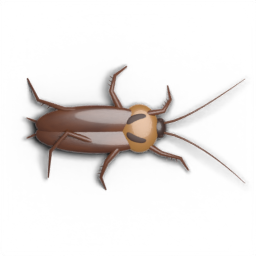
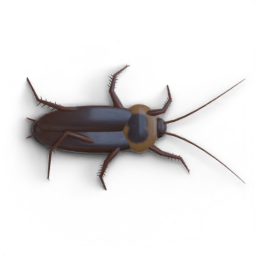
Roach looks real, not plastic: veined wings, room lighting, wet coat
He said it 'could look more realistic texture-wise'. The plastic came from
one lamp on an evenly glossy shell. Now: forewings with raised longitudinal
and cross veins in the bump, darker at the shoulder and thinning to amber,
under a smooth wet coat that keeps the geometry normal; shine driven by a
smudge noise, never a constant; an amber pitted shield whose dark blotch is
one bilobed mass painted in the pigment; spinier legs with claws; the last
abdominal plates showing between the wing tips.

Lit by one of Blender's bundled rooms, TILTED so the flat back reflects a
window-to-floor sweep instead of an even ceiling (which went milky grey),
with the key lamp hidden from glossy rays. Per kind - the approved matte
spider keeps its plain lamp. Re-rendered walk loop: clean seam.

diff --git a/tools/blender_art/critters.py b/tools/blender_art/critters.py
@@ -33,7 +33,16 @@ from mathutils import Vector
 
 
 # -- scene -----------------------------------------------------------------
-def reset_scene(size: int, view: float, samples: int):
+def bundled_hdri(name: str) -> Path:
+    """One of the lighting environments Blender ships for its viewport
+    (city, courtyard, forest, interior, night, studio, sunrise, sunset)."""
+    root = Path(bpy.app.binary_path).parent
+    ver = "%d.%d" % bpy.app.version[:2]
+    return root / ver / "datafiles" / "studiolights" / "world" / f"{name}.exr"
+
+
+def reset_scene(size: int, view: float, samples: int, hdri: str = "",
+                env_tilt: float = 100.0, env_turn: float = 20.0):
     bpy.ops.wm.read_factory_settings(use_empty=True)
     sc = bpy.context.scene
     sc.render.engine = "CYCLES"
@@ -51,6 +60,24 @@ def reset_scene(size: int, view: float, samples: int):
     bg = world.node_tree.nodes["Background"]
     bg.inputs[0].default_value = (0.75, 0.78, 0.9, 1)
     bg.inputs[1].default_value = 0.30
+    if hdri:
+        # A glossy shell lit by one lamp shows one flat blob and reads as
+        # plastic. Real chitin reflects a ROOM: windows, ceiling, dark corners.
+        env = world.node_tree.nodes.new("ShaderNodeTexEnvironment")
+        env.image = bpy.data.images.load(str(bundled_hdri(hdri)))
+        # TILT THE ROOM. The camera looks straight down at a nearly flat back,
+        # so an upright room reflects only its ceiling: one even bright sheet
+        # that turns a glossy shell milky grey. Tipped over, the back reflects
+        # a sweep from window to floor instead - a streak of shine with a dark
+        # side, which is how a wet shell actually looks.
+        tc = world.node_tree.nodes.new("ShaderNodeTexCoord")
+        mp = world.node_tree.nodes.new("ShaderNodeMapping")
+        mp.inputs["Rotation"].default_value = (math.radians(env_tilt), 0.0,
+                                               math.radians(env_turn))
+        world.node_tree.links.new(tc.outputs["Generated"], mp.inputs["Vector"])
+        world.node_tree.links.new(mp.outputs["Vector"], env.inputs["Vector"])
+        world.node_tree.links.new(env.outputs["Color"], bg.inputs[0])
+        bg.inputs[1].default_value = 0.55
     sc.world = world
 
     cam_d = bpy.data.cameras.new("cam")
@@ -63,12 +90,16 @@ def reset_scene(size: int, view: float, samples: int):
 
     key_d = bpy.data.lights.new("key", "AREA")
     key_d.shape = "DISK"                   # a square lamp leaves square glints
-    key_d.energy = 1500
+    key_d.energy = 550 if hdri else 1500   # with a room lit, it only adds shadow
     key_d.size = 9
     key = bpy.data.objects.new("key", key_d)
     key.location = (1.6, 1.8, 10)          # a touch ahead-left of the bug
     key.rotation_euler = (-0.17, 0.15, 0)
     sc.collection.objects.link(key)
+    if hdri:
+        # the lamp is there for the contact shadow; its own reflection is a
+        # big round disc that flattens everything glossy
+        key.visible_glossy = False
     return sc
 
 
@@ -109,6 +140,205 @@ def material(name, color, rough=0.45, sheen=0.0, coat=0.0, bump=0.0,
             b.inputs["Strength"].default_value = bump
             nt.links.new(noise.outputs["Fac"], b.inputs["Height"])
             nt.links.new(b.outputs["Normal"], bsdf.inputs["Normal"])
+    return mat
+
+
+# -- node-graph helpers (for the materials that need more than `material`) --
+def _sock(nt, v):
+    """A socket as-is; a number or colour becomes a constant node output."""
+    if hasattr(v, "is_output"):
+        return v
+    if isinstance(v, (int, float)):
+        n = nt.nodes.new("ShaderNodeValue")
+        n.outputs[0].default_value = v
+        return n.outputs[0]
+    n = nt.nodes.new("ShaderNodeRGB")
+    n.outputs[0].default_value = (*v, 1)
+    return n.outputs[0]
+
+
+def _math(nt, op, a, b=None, c=None, clamp=False):
+    n = nt.nodes.new("ShaderNodeMath")
+    n.operation, n.use_clamp = op, clamp
+    for i, v in enumerate((a, b, c)):
+        if v is None:
+            continue
+        if hasattr(v, "is_output"):
+            nt.links.new(v, n.inputs[i])
+        else:
+            n.inputs[i].default_value = v
+    return n.outputs[0]
+
+
+def _mix(nt, fac, a, b):
+    n = nt.nodes.new("ShaderNodeMix")
+    n.data_type = "RGBA"
+    nt.links.new(_sock(nt, fac), n.inputs[0])
+    nt.links.new(_sock(nt, a), n.inputs[6])
+    nt.links.new(_sock(nt, b), n.inputs[7])
+    return n.outputs[2]
+
+
+def _ramp(nt, fac, stops):
+    n = nt.nodes.new("ShaderNodeValToRGB")
+    els = n.color_ramp.elements
+    while len(els) < len(stops):
+        els.new(0.5)
+    for el, (pos, val) in zip(els, stops):
+        el.position = pos
+        el.color = (val, val, val, 1)
+    nt.links.new(fac, n.inputs["Fac"])
+    return n.outputs["Color"]
+
+
+def _coords(nt, scale=(1, 1, 1)):
+    tc = nt.nodes.new("ShaderNodeTexCoord")
+    mp = nt.nodes.new("ShaderNodeMapping")
+    mp.inputs["Scale"].default_value = scale
+    nt.links.new(tc.outputs["Object"], mp.inputs["Vector"])
+    return tc.outputs["Object"], mp.outputs["Vector"]
+
+
+def _noise(nt, vec, scale, detail=5.0):
+    n = nt.nodes.new("ShaderNodeTexNoise")
+    n.inputs["Scale"].default_value = scale
+    n.inputs["Detail"].default_value = detail
+    nt.links.new(vec, n.inputs["Vector"])
+    return n.outputs["Fac"]
+
+
+def _finish(nt, bsdf, color, rough, height, bump, sss=0.0, coat=0.0,
+            sss_radius=(0.7, 0.18, 0.05), coat_rough=0.12):
+    nt.links.new(_sock(nt, color), bsdf.inputs["Base Color"])
+    nt.links.new(_sock(nt, rough), bsdf.inputs["Roughness"])
+    b = nt.nodes.new("ShaderNodeBump")
+    b.inputs["Strength"].default_value = bump
+    b.inputs["Distance"].default_value = 0.03
+    nt.links.new(_sock(nt, height), b.inputs["Height"])
+    nt.links.new(b.outputs["Normal"], bsdf.inputs["Normal"])
+    bsdf.inputs["Subsurface Weight"].default_value = sss
+    bsdf.inputs["Subsurface Radius"].default_value = sss_radius
+    bsdf.inputs["Subsurface Scale"].default_value = 0.25
+    # The coat keeps the GEOMETRY normal (Coat Normal is left unlinked), so it
+    # stays a smooth wet film over the bumpy base - which is what a real wing
+    # is: a glassy surface with structure showing through it.
+    bsdf.inputs["Coat Weight"].default_value = coat
+    bsdf.inputs["Coat Roughness"].default_value = coat_rough
+
+
+def wing_material():
+    """A cockroach forewing: translucent red-brown chitin, darker and thicker
+    at the shoulder, thinning to amber at the tip, carrying a fan of raised
+    longitudinal veins with a net of cross-veins between them - and a shine
+    that is never even, because a real wing is smudged and scuffed."""
+    mat = bpy.data.materials.new("wing")
+    mat.use_nodes = True
+    nt = mat.node_tree
+    bsdf = nt.nodes["Principled BSDF"]
+    obj, vec = _coords(nt)
+    # object X runs shoulder (+1) to tip (-1); the wing's own scale stretches
+    # every pattern lengthwise, which is exactly how the veins should run
+    wave = nt.nodes.new("ShaderNodeTexWave")
+    wave.wave_type, wave.bands_direction = "BANDS", "Y"
+    wave.inputs["Scale"].default_value = 4.2
+    wave.inputs["Distortion"].default_value = 2.2
+    wave.inputs["Detail"].default_value = 2.0
+    nt.links.new(vec, wave.inputs["Vector"])
+    long_veins = _ramp(nt, wave.outputs["Fac"],
+                       [(0.40, 0.0), (0.50, 1.0), (0.60, 0.0)])
+    vor = nt.nodes.new("ShaderNodeTexVoronoi")
+    vor.feature = "DISTANCE_TO_EDGE"
+    vor.inputs["Scale"].default_value = 7.0
+    _, vec2 = _coords(nt, (1.0, 2.4, 1.0))
+    nt.links.new(vec2, vor.inputs["Vector"])
+    cross_veins = _ramp(nt, vor.outputs["Distance"], [(0.0, 1.0), (0.07, 0.0)])
+    veins = _math(nt, "MAXIMUM", long_veins,
+                  _math(nt, "MULTIPLY", cross_veins, 0.6))
+
+    sep = nt.nodes.new("ShaderNodeSeparateXYZ")
+    nt.links.new(obj, sep.inputs[0])
+    along = _math(nt, "MULTIPLY_ADD", sep.outputs["X"], -0.5, 0.5, clamp=True)
+    mottle = _noise(nt, vec, 2.2)                           # 0 shoulder .. 1 tip
+    chitin = _mix(nt, along, (0.016, 0.0035, 0.0012), (0.062, 0.016, 0.004))
+    chitin = _mix(nt, _math(nt, "MULTIPLY", mottle, 0.55), chitin,
+                  (0.008, 0.002, 0.001))
+    # veins darken the colour only a little - painted dark they read as WOOD
+    # GRAIN; they belong mostly in the bump, where the light finds them
+    color = _mix(nt, _math(nt, "MULTIPLY", veins, 0.35), chitin,
+                 (0.006, 0.0015, 0.0006))
+
+    smudge = _noise(nt, vec, 3.5, 8.0)
+    rough = _math(nt, "ADD", _math(nt, "MULTIPLY", smudge, 0.26), 0.16)
+    rough = _math(nt, "ADD", rough, _math(nt, "MULTIPLY", veins, 0.12))
+    height = _math(nt, "ADD", veins,
+                   _math(nt, "MULTIPLY", _noise(nt, vec, 38.0, 2.0), 0.12))
+    _finish(nt, bsdf, color, rough, height, bump=0.30, sss=0.08, coat=0.55,
+            coat_rough=0.07)
+    return mat
+
+
+def shield_material():
+    """The pronotum: translucent amber, darkening toward the rim where the
+    shell is seen edge-on, finely pitted, with the two dark blotches IN the
+    pigment. (As separate glossy shapes they read as stickers - and one round
+    one read as a cartoon eyeball.)"""
+    mat = bpy.data.materials.new("shield")
+    mat.use_nodes = True
+    nt = mat.node_tree
+    bsdf = nt.nodes["Principled BSDF"]
+    obj, vec = _coords(nt)
+    sep = nt.nodes.new("ShaderNodeSeparateXYZ")
+    nt.links.new(obj, sep.inputs[0])
+    # Two fat lobes that OVERLAP on the midline: together one bilobed dark
+    # mass filling the middle of the shield, leaving a pale band round the rim
+    # (the American cockroach's "yellow margin"). Two separate round spots on
+    # a pale disc read as a pair of EYES - the same trap as the single one.
+    xa = _math(nt, "DIVIDE", _math(nt, "ADD", sep.outputs["X"], 0.10), 0.66)
+    ya = _math(nt, "DIVIDE", _math(nt, "SUBTRACT",
+                                   _math(nt, "ABSOLUTE", sep.outputs["Y"]),
+                                   0.24), 0.46)
+    dist = _math(nt, "SQRT", _math(nt, "ADD", _math(nt, "POWER", xa, 2.0),
+                                   _math(nt, "POWER", ya, 2.0)))
+    edge = _noise(nt, vec, 9.0, 3.0)                       # a ragged outline
+    dist = _math(nt, "ADD", dist, _math(nt, "MULTIPLY", edge, 0.30))
+    mr = nt.nodes.new("ShaderNodeMapRange")
+    mr.interpolation_type = "SMOOTHSTEP"
+    mr.inputs["From Min"].default_value = 0.85
+    mr.inputs["From Max"].default_value = 1.15
+    mr.inputs["To Min"].default_value = 1.0
+    mr.inputs["To Max"].default_value = 0.0
+    nt.links.new(dist, mr.inputs["Value"])
+    blotch = mr.outputs["Result"]
+
+    lw = nt.nodes.new("ShaderNodeLayerWeight")
+    lw.inputs["Blend"].default_value = 0.42
+    amber = _mix(nt, lw.outputs["Facing"], (0.200, 0.095, 0.022),
+                 (0.045, 0.013, 0.004))
+    amber = _mix(nt, _math(nt, "MULTIPLY", _noise(nt, vec, 5.0), 0.35), amber,
+                 (0.085, 0.030, 0.007))
+    color = _mix(nt, blotch, amber, (0.014, 0.0035, 0.0015))
+    rough = _math(nt, "ADD", _math(nt, "MULTIPLY", _noise(nt, vec, 4.0, 8.0),
+                                   0.30), 0.16)
+    pits = nt.nodes.new("ShaderNodeTexVoronoi")
+    pits.inputs["Scale"].default_value = 46.0
+    nt.links.new(vec, pits.inputs["Vector"])
+    _finish(nt, bsdf, color, rough, pits.outputs["Distance"], bump=0.22,
+            sss=0.07, coat=0.50, sss_radius=(0.9, 0.35, 0.08), coat_rough=0.08)
+    return mat
+
+
+def limb_material(name, dark, light, sss=0.10):
+    """Leg chitin: mottled, scuffed, slightly translucent."""
+    mat = bpy.data.materials.new(name)
+    mat.use_nodes = True
+    nt = mat.node_tree
+    bsdf = nt.nodes["Principled BSDF"]
+    _, vec = _coords(nt)
+    color = _mix(nt, _noise(nt, vec, 6.0), dark, light)
+    rough = _math(nt, "ADD", _math(nt, "MULTIPLY", _noise(nt, vec, 9.0, 8.0),
+                                   0.30), 0.20)
+    _finish(nt, bsdf, color, rough, _noise(nt, vec, 30.0, 2.0), bump=0.30,
+            sss=sss, coat=0.45, coat_rough=0.10)
     return mat
 
 
@@ -280,14 +510,14 @@ ROACH_SWEEP = (1.15, -1.05, -1.25)
 def build_roach(phase: float, hang: bool, use_fur: bool):
     # Dark and greasy. A strong clear-coat over a mid brown went milky pink
     # under the overhead lamp, so the colour is deep and the coat is modest.
-    wing = material("wing", (0.070, 0.017, 0.005), rough=0.30, coat=0.45,
-                    bump=0.12, mottle=(0.150, 0.042, 0.010), scale=2.4)
-    shield = material("shield", (0.30, 0.135, 0.030), rough=0.34, coat=0.35,
-                      bump=0.08)
-    blotch = material("blotch", (0.040, 0.012, 0.005), rough=0.55)
-    dark = material("dark", (0.030, 0.010, 0.005), rough=0.4, coat=0.3)
-    legm = material("rleg", (0.115, 0.032, 0.009), rough=0.4, coat=0.25,
-                    bump=0.2)
+    # The realism is in the SURFACE: veined translucent wings, pigment blotches
+    # in a pitted amber shield, scuffed uneven shine - see the *_material docs.
+    wing = wing_material()
+    shield = shield_material()
+    blotch = material("eyeglass", (0.010, 0.006, 0.006), rough=0.08, coat=1.0)
+    dark = limb_material("dark", (0.018, 0.006, 0.003), (0.050, 0.016, 0.006))
+    legm = limb_material("rleg", (0.030, 0.0075, 0.0025), (0.105, 0.030, 0.008),
+                         sss=0.06)
     spine = material("spine", (0.045, 0.014, 0.006), rough=0.4)
     feel = material("feeler", (0.105, 0.034, 0.012), rough=0.4)
 
@@ -302,14 +532,15 @@ def build_roach(phase: float, hang: bool, use_fur: bool):
                       (2.30, 0.72, 0.20), wing)
         w.rotation_euler = (0.10 * side, 0, 0.035 * side)
     # pronotum: the amber shield, dark in the middle
-    ellipsoid("shield", (1.22 + sx, wag * 0.5, 0.42), (0.80, 1.00, 0.24), shield)
-    # TWO flat matte blotches, as on the real animal. One round glossy one in
-    # the middle of a pale disc rendered as a giant cartoon EYEBALL - a gestalt
-    # that only shows up in the assembled image, never in the numbers.
-    for side in (1, -1):
-        b = ellipsoid("blotch", (1.12 + sx, 0.34 * side + wag * 0.5, 0.585),
-                      (0.46, 0.27, 0.06), blotch, 32)
-        b.rotation_euler = (0, 0, 0.35 * side)
+    # The two blotches live in shield_material's pigment. (One round glossy
+    # blob in the middle of a pale disc rendered as a giant cartoon EYEBALL - a
+    # gestalt that only shows up in the assembled image, never in the numbers.)
+    ellipsoid("shield", (1.22 + sx, wag * 0.5, 0.42), (0.80, 1.00, 0.24),
+              shield, 64)
+    # the last plates of the abdomen just show between the wing tips
+    for j in range(3):
+        ellipsoid("tergite", (-2.62 - 0.17 * j + sx, wag, 0.31),
+                  (0.26, 0.62 - 0.13 * j, 0.17), dark, 32)
     # the head just shows under the front of the shield
     ellipsoid("head", (2.02 + sx, 0, 0.30), (0.34, 0.44, 0.24), dark, 32)
     for side in (1, -1):
@@ -340,23 +571,39 @@ def build_roach(phase: float, hang: bool, use_fur: bool):
             fx, fy, fz = foot_at(rest, ph, ROACH_STRIDE, lift=0.32)
             f = (fx + sx, fy * side, fz)
             pts = leg_points(h, f, total, ROACH_SWEEP[i], knee_bias=0.42)
-            tube("leg", [tuple(p) for p in pts], [0.165, 0.105, 0.070, 0.028],
+            tube("leg", [tuple(p) for p in pts], [0.185, 0.115, 0.066, 0.026],
                  legm)
-            # tibial spines: what makes a roach leg a roach leg
+            # tibial spines, both edges, uneven: what makes a roach leg a
+            # roach leg (the hind pair carries the longest)
             knee, ankle = pts[1], pts[2]
             along = (ankle - knee).normalized()
             out = Vector((-along.y, along.x, 0)) * side
-            for t in (0.25, 0.5, 0.75):
+            reach = 0.17 + 0.05 * i
+            for k, t in enumerate((0.15, 0.32, 0.50, 0.68, 0.86)):
                 base = knee.lerp(ankle, t)
-                tube("spine", [tuple(base),
-                               tuple(base + out * 0.20 + along * 0.10
-                                     + Vector((0, 0, 0.04)))],
-                     [0.030, 0.006], spine)
+                for edge in (1, -1):
+                    ln = reach * (0.75 + 0.35 * ((k * 7 + i * 3) % 5) / 4)
+                    if edge < 0:
+                        ln *= 0.7
+                    tube("spine", [tuple(base),
+                                   tuple(base + out * (ln * edge)
+                                         + along * (ln * 0.55)
+                                         + Vector((0, 0, 0.03)))],
+                         [0.026, 0.004], spine)
+            # the foot: a pair of claws
+            foot = pts[3]
+            toe = (foot - ankle).normalized()
+            for edge in (1, -1):
+                tube("claw", [tuple(foot),
+                              tuple(foot + toe * 0.10 + out * (0.07 * edge))],
+                     [0.020, 0.004], spine)
 
 
-# kind -> (builder, view units, stride units)
-BUGS = {"spider": (build_spider, SPIDER_VIEW, STRIDE),
-        "roach": (build_roach, ROACH_VIEW, ROACH_STRIDE)}
+# kind -> (builder, view units, stride units, lighting environment)
+# The spider's look is APPROVED as rendered under the plain lamp - it is matte
+# fur, so a room to reflect adds nothing; leave it alone.
+BUGS = {"spider": (build_spider, SPIDER_VIEW, STRIDE, ""),
+        "roach": (build_roach, ROACH_VIEW, ROACH_STRIDE, "interior")}
 
 
 def main():
@@ -369,12 +616,14 @@ def main():
 
     size, frames = val("--size", 256), val("--frames", 16)
     samples, only = val("--samples", 48), val("--only", -1)
-    build, view, stride = BUGS[kind]
+    build, view, stride, hdri = BUGS[kind]
+    hdri = val("--hdri", hdri)
+    tilt, turn = val("--tilt", 100.0), val("--turn", 20.0)
     out.mkdir(parents=True, exist_ok=True)
     for f in range(frames):
         if only >= 0 and f != only:
             continue
-        sc = reset_scene(size, view, samples)
+        sc = reset_scene(size, view, samples, hdri, tilt, turn)
         if clip != "hang":
             shadow_floor()
         build(f / frames, clip == "hang", "--fur" in opt)
